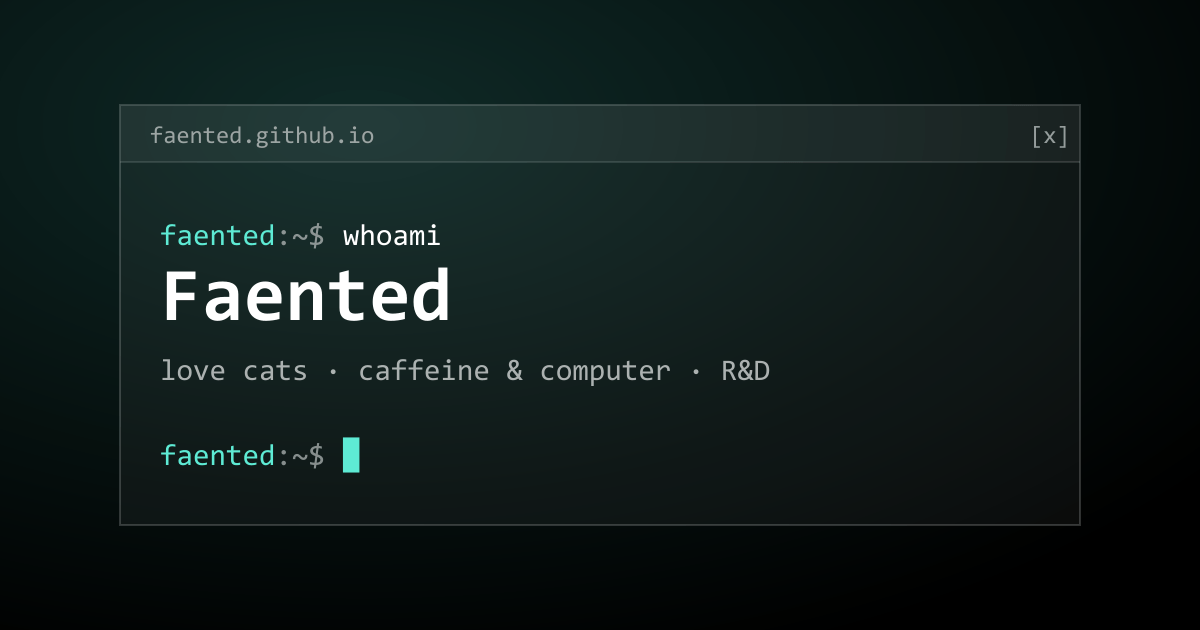
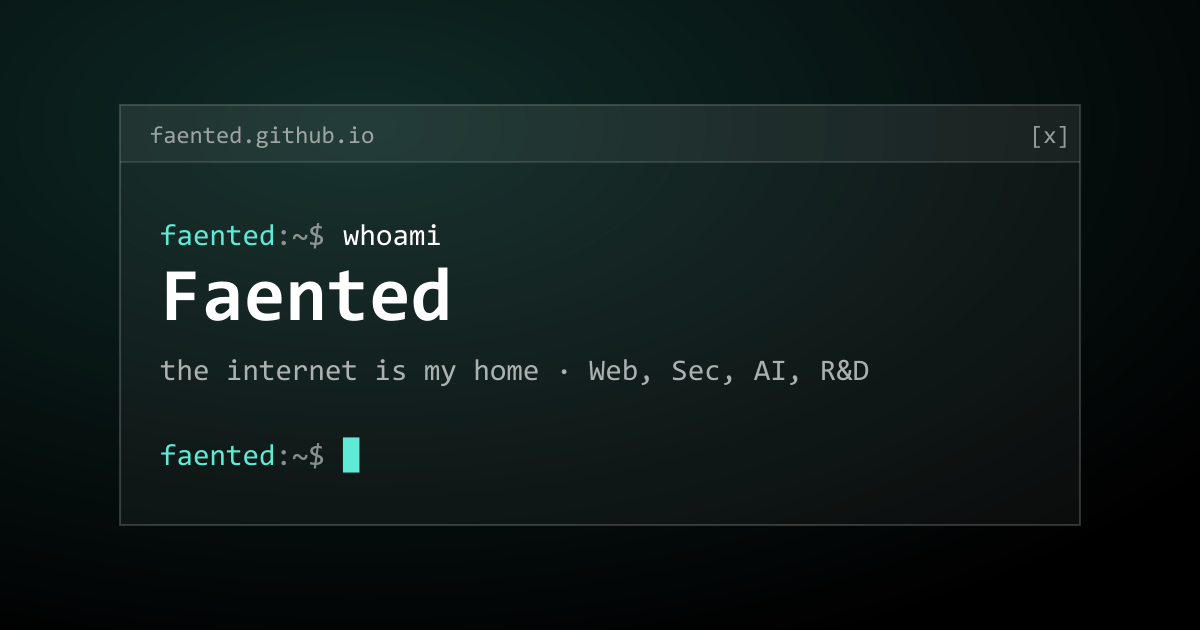
Update site title, description and preview to match GitHub bio

Changed region(s): [[0.1233, 0.573, 0.74, 0.6032]]

diff --git a/src/config.ts b/src/config.ts
@@ -4,9 +4,9 @@ export const GITHUB_USERNAME = "Faented";
 export const SITE_URL = "https://faented.github.io";
 
 // заголовок и описание для поисковиков и превью ссылок
-export const SITE_TITLE = "Faented — терминал, записки, R&D";
+export const SITE_TITLE = "Faented — Web, Sec, AI, R&D";
 export const SITE_DESCRIPTION =
-  "Faented: R&D, коты, кофеин и компьютеры. Личный сайт в виде терминала — записки, ссылки, проекты.";
+  "Faented — the internet is my home. Веб, безопасность, AI и R&D. Личный сайт-терминал: записки, ссылки, проекты.";
 
 export const LINKS = [
   { name: "telegram", href: "https://t.me/faented" },
@@ -14,4 +14,4 @@ export const LINKS = [
 ];
 
 // показывается, пока GitHub API не ответил или если в профиле нет bio
-export const FALLBACK_BIO = "love cats · addict of caffeine & computer · R&D";
+export const FALLBACK_BIO = "the internet is my home · Web, Sec, AI, R&D";
